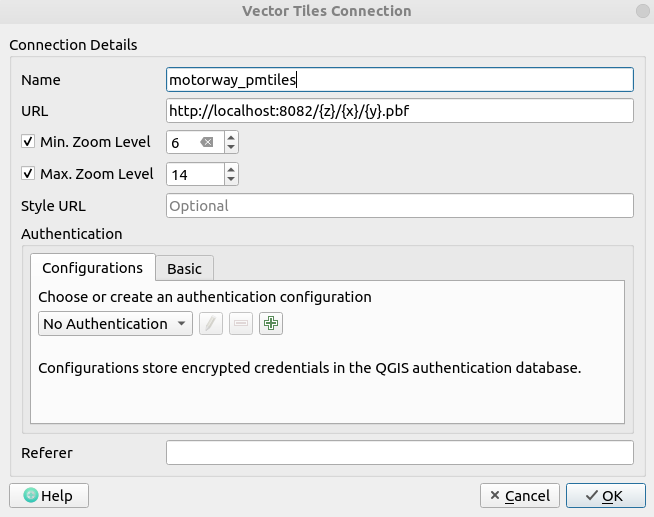
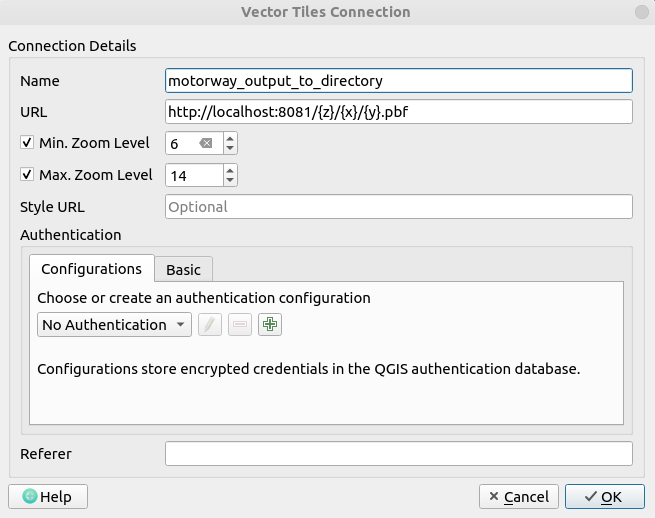
Update post
PMTiles cannot be used directly in QGIS

diff --git a/data/blog/2023/create-vector-tiles-with-tippecanoe.md b/data/blog/2023/create-vector-tiles-with-tippecanoe.md
@@ -99,11 +99,11 @@ tippecanoe \
   -l "highways"
 ```
 
----
+## Using your vector tiles in QGIS
 
-## Using your vector tiles
+Since `PMTiles` connot be used directly in QGIS at this time, this part is only for `MBTiles` and `Directory`, but you can use `PMTiles` through Leaflet or Maplibre GL JS.
 
-### Host MBTiles
+### MBTiles
 
 If you output vector tiles as `MBTiles`, you can use `tileserver-gl-light` to host your `MBTiles`.
 
@@ -116,9 +116,9 @@ The ZXY URL is [`http://localhost:8080/data/motorway/{z}/{x}/{y}.pbf`](http://lo
 > You can install `tileserver-gl-light` with `npm install -g tileserver-gl-light`.  
 > If you want to change more behavior about `tileserver-gl-light`, you can follow [TileServer GL documentation](https://tileserver.readthedocs.io/en/latest/) . The documentation has example about configuration file.
 
-### Host directory or PMTiles
+### Directory
 
-If you output vector tiles to `directory` or `PMTiles`, you can use `http-server` or other HTTP server to host it.
+If you output vector tiles to `directory`, you can use `http-server` or other HTTP server to host it.
 
 ```bash
 # Output directory
@@ -126,13 +126,6 @@ http-server --port 8081 ./motorway_tiles
 ```
 
 The URL is [`http://localhost:8081/{z}/{x}/{y}.pbf`](http://localhost:8081/{z}/{x}/{y}.pbf)
-
-```bash
-# PMTiles in current directory
-http-server --port 8082 .
-```
-
-The URL is [`http://localhost:8082/{z}/{x}/{y}.pbf`](http://localhost:8082/{z}/{x}/{y}.pbf)
 
 ### Open your vector tiles in QGIS
 
